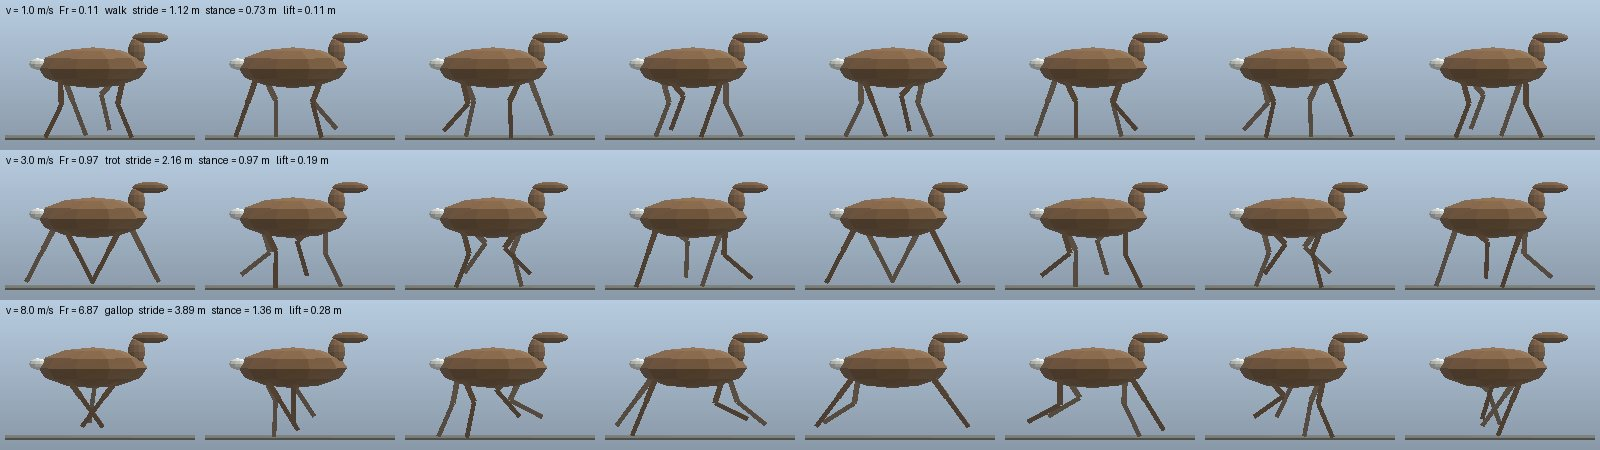
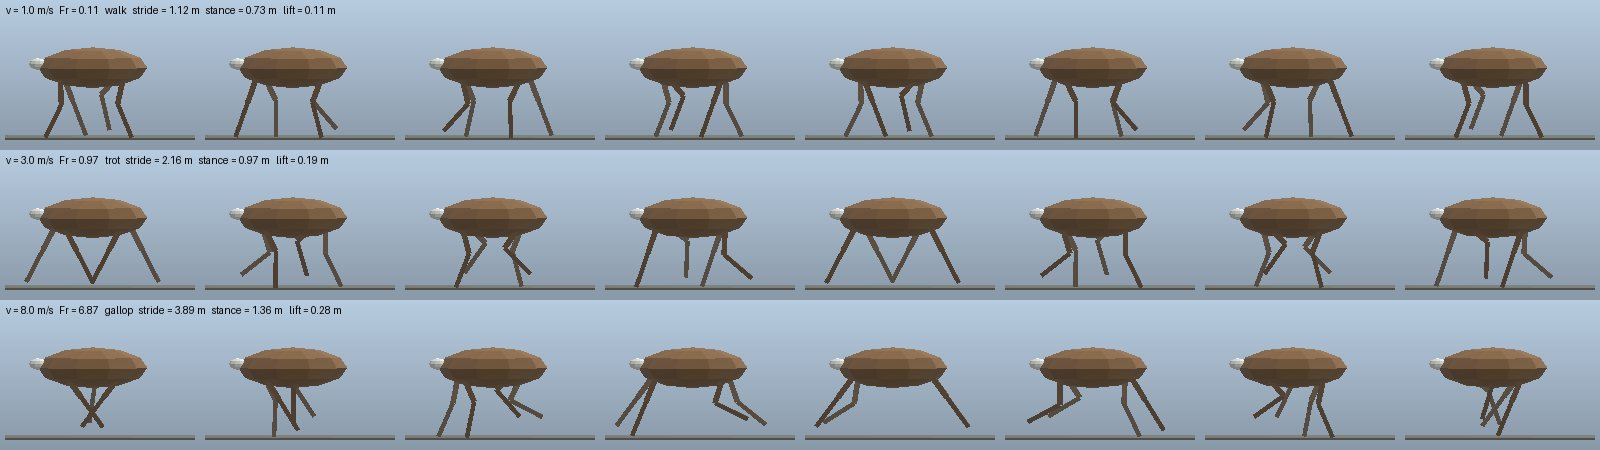
Trunk bob and head pose by behaviour
TECHNIQUES §28.

Bob (inverted-pendulum vault, highest at mid-stance, twice per stride):
    b(φ) = A h cos 2φ,   A = 0.015 / 0.03 / 0.05 for walk / trot / gallop
The trunk node (torso, neck, legs) carries b; IK aims feet at z = −(h + b)
so stance feet stay planted.

Head: deer, coyote and turkey have a neck-and-head part pivoting at the
neck base. Pitch follows the logged behaviour state as a fraction of the
grazing angle δ_g (110° deer and coyote, 120° turkey):
    eat/drink 1.0   dig 0.9   scratch 0.8   groom 0.4   rest 0.3
    travel 0.15     idle 0.1  flee 0.1      pause 0     freeze −0.2
    alert −0.25
Each change eases over 0.4 s.

Viewer check: 53 animated nodes, unique names, no errors. Gallery adds
poses.jpg. Scenes 10.72 / 9.04 / 9.79 MB. Tests pass.

Claude-Session: https://claude.ai/code/session_01W8T2zvuXVw2eBrrYHA5yqx

diff --git a/plandscape/fauna/bodies.py b/plandscape/fauna/bodies.py
@@ -28,13 +28,14 @@ def ellipsoid(c, r, rgb, nu=10, nv=6):
 
 def rig(key, rgb, scale=1.0):
     """Body split for gait animation: dict(torso=Mesh, legs=[dict(thigh, shank, hip, knee, l1, l2)],
-    hip=hip height h (m), kind='quad'|'biped'|'hop'|'none'). Legs are ordered LF, RF, LH, RH (bipeds L, R).
+    neck=dict(mesh, pivot, graze) or None, hip=hip height h (m), kind='quad'|'biped'|'hop'|'none'). Legs are ordered LF, RF, LH, RH (bipeds L, R).
     Thigh and shank hang straight down from their own origins (hip, knee); together they are h / 0.95 long, so
     the rest pose (gait.rest_pose) is slightly flexed. knee = +1 bends forward (stifle, human knee), −1 backward
     (a deer's carpus, a bird's intertarsal joint)."""
     from .gait import REACH
     rgb = np.asarray(rgb)
     parts, legs, hip, kind = [], [], 0.0, "none"
+    neck = None  # dict(mesh relative to the pivot, pivot xyz, graze=head-down pitch in radians)
 
     def leg(x, y, h, w, col, knee):
         L = h * REACH
@@ -45,9 +46,12 @@ def rig(key, rgb, scale=1.0):
     if key in ("white_tailed_deer", "coyote"):
         L = 0.75 if key == "white_tailed_deer" else 0.5
         h = 0.95 if key == "white_tailed_deer" else 0.5
-        parts += [ellipsoid((0, 0, h), (L, 0.22 * L / 0.75 + 0.05, 0.25 * L / 0.75 + 0.03), rgb),
-                  ellipsoid((L * 0.8, 0, h + 0.3 * L), (0.12, 0.07, 0.25 * L), rgb),
-                  ellipsoid((L * 1.05, 0, h + 0.55 * L), (0.2 * L / 0.75 + 0.05, 0.07, 0.08), rgb * 0.9)]
+        parts += [ellipsoid((0, 0, h), (L, 0.22 * L / 0.75 + 0.05, 0.25 * L / 0.75 + 0.03), rgb)]
+        pv = np.array([L * 0.7, 0, h + 0.05])
+        neck = dict(mesh=Mesh.merge([ellipsoid(np.array([L * 0.8, 0, h + 0.3 * L]) - pv, (0.12, 0.07, 0.25 * L), rgb),
+                                     ellipsoid(np.array([L * 1.05, 0, h + 0.55 * L]) - pv,
+                                               (0.2 * L / 0.75 + 0.05, 0.07, 0.08), rgb * 0.9)]),
+                    pivot=tuple(pv), graze=np.radians(110))
         for x, knee in ((L * 0.6, -1.0), (-L * 0.6, 1.0)):  # fore (carpus bends back), then hind (stifle forward)
             for y in (0.1, -0.1):                            # left (+y), then right
                 leg(x, y, h, 0.06, rgb * 0.8, knee)
@@ -63,9 +67,11 @@ def rig(key, rgb, scale=1.0):
         hip, kind = 0.1, "hop"
     elif key == "wild_turkey":
         parts += [ellipsoid((0, 0, 0.55), (0.32, 0.2, 0.22), rgb),
-                  ellipsoid((0.3, 0, 0.82), (0.04, 0.04, 0.16), (0.55, 0.65, 0.75)),
-                  ellipsoid((0.33, 0, 0.98), (0.06, 0.04, 0.05), (0.7, 0.15, 0.15)),
                   ellipsoid((-0.3, 0, 0.6), (0.12, 0.25, 0.08), rgb * 0.8)]
+        pv = np.array([0.25, 0, 0.65])
+        neck = dict(mesh=Mesh.merge([ellipsoid(np.array([0.3, 0, 0.82]) - pv, (0.04, 0.04, 0.16), (0.55, 0.65, 0.75)),
+                                     ellipsoid(np.array([0.33, 0, 0.98]) - pv, (0.06, 0.04, 0.05), (0.7, 0.15, 0.15))]),
+                    pivot=tuple(pv), graze=np.radians(120))
         for y in (0.08, -0.08):
             leg(0.02, y, 0.36, 0.03, (0.6, 0.35, 0.3), -1.0)  # the visible "knee" is the intertarsal joint
         hip, kind = 0.36, "biped"
@@ -85,13 +91,16 @@ def rig(key, rgb, scale=1.0):
         hip, kind = 0.9, "biped"
     torso = Mesh.merge(parts)
     torso.positions *= scale
+    if neck is not None:
+        neck["mesh"].positions *= scale
+        neck["pivot"] = tuple(c * scale for c in neck["pivot"])
     for lg in legs:
         lg["thigh"].positions *= scale
         lg["shank"].positions *= scale
         lg["hip"] = tuple(c * scale for c in lg["hip"])
         lg["l1"] *= scale
         lg["l2"] *= scale
-    return dict(torso=torso, legs=legs, hip=hip * scale, kind=kind)
+    return dict(torso=torso, legs=legs, neck=neck, hip=hip * scale, kind=kind)
 
 
 def _pitch(P, th):
@@ -116,4 +125,8 @@ def posed_legs(r, angles=None):
 def body(key, rgb, scale=1.0):
     """The rig merged into one static mesh in its rest pose (previews, the asset library)."""
     r = rig(key, rgb, scale)
-    return Mesh.merge([r["torso"]] + posed_legs(r))
+    parts = [r["torso"]] + posed_legs(r)
+    if r["neck"] is not None:
+        n = r["neck"]
+        parts.append(Mesh(n["mesh"].positions + np.asarray(n["pivot"], np.float32), n["mesh"].colors, n["mesh"].indices))
+    return Mesh.merge(parts)

diff --git a/plandscape/scene/compose.py b/plandscape/scene/compose.py
@@ -410,10 +410,12 @@ def compose(plan: ScenePlan, out_dir: str, sim_seconds=180.0, log=print, store: 
             rg = rig(a.spec.key, rgb, scale=sc)
             nm = f"{a.spec.key}_{len(rigs)}"
             rigs[look] = (rg, g.mesh(rg["torso"], nm + "_torso", m_fauna),
+                          g.mesh(rg["neck"]["mesh"], nm + "_head", m_fauna) if rg["neck"] else None,
                           [(g.mesh(lg["thigh"], f"{nm}_thigh{i}", m_fauna), g.mesh(lg["shank"], f"{nm}_shank{i}", m_fauna))
                            for i, lg in enumerate(rg["legs"])])
-        rg, torso_mesh, leg_meshes = rigs[look]
+        rg, torso_mesh, head_mesh, leg_meshes = rigs[look]
         torso = g.node("torso", torso_mesh)
+        neck = g.node("neck", head_mesh, translation=rg["neck"]["pivot"]) if head_mesh is not None else None
         legs, shanks = [], []
         for i, ((tm_, sm_), lg) in enumerate(zip(leg_meshes, rg["legs"])):
             r1, r2 = gait.rest_pose(rg["hip"], lg["l1"], lg["l2"], lg["knee"])
@@ -423,7 +425,8 @@ def compose(plan: ScenePlan, out_dir: str, sim_seconds=180.0, log=print, store: 
             g.nodes[th]["rotation"] = pitch_quat(r1).tolist()
             legs.append(th)
             shanks.append(sh)
-        node = g.node(f"{a.spec.key}_{a.id}", children=[torso] + legs)
+        trunk = g.node("body", children=[torso] + ([neck] if neck is not None else []) + legs)
+        node = g.node(f"{a.spec.key}_{a.id}", children=[trunk])
         akids.append(node)
         L = a.log[::4]
         if len(L) > 1:
@@ -431,13 +434,19 @@ def compose(plan: ScenePlan, out_dir: str, sim_seconds=180.0, log=print, store: 
         if len(a.log) > 1:  # legs swing by gait, by stride phase (keys only while moving)
             t_ = np.array([l[0] for l in a.log])
             xy = np.array([(l[1], l[2]) for l in a.log])
-            if legs:  # hip and knee by two-bone IK on planted-foot paths (TECHNIQUES §26)
+            if legs:  # hip and knee by two-bone IK on planted-foot paths (§26), trunk bob (§28)
                 lg0 = rg["legs"][0]
+                bob = []
                 tk, ang, _ = gait.leg_ik(t_, xy, rg["hip"], [lg["knee"] for lg in rg["legs"]],
-                                         "quad" if rg["kind"] == "quad" else "biped", seg=(lg0["l1"], lg0["l2"]))
+                                         "quad" if rg["kind"] == "quad" else "biped", seg=(lg0["l1"], lg0["l2"]), bob=bob)
                 for i, (ln, sn) in enumerate(zip(legs, shanks)):
                     extra.append((ln, "rotation", tk, pitch_quat(ang[:, i, 0])))
                     extra.append((sn, "rotation", tk, pitch_quat(ang[:, i, 1])))
+                bz = np.asarray(bob)
+                extra.append((trunk, "translation", tk, _to_gltf(np.c_[0 * bz, 0 * bz, bz])))
+            if neck is not None:  # head down to graze, up when alert (§28)
+                hk, hv = gait.head_track(t_, [l[5] for l in a.log], rg["neck"]["graze"])
+                extra.append((neck, "rotation", hk, pitch_quat(-hv)))
             elif rg["kind"] == "hop":
                 tk, zz = gait.hop_heights(t_, xy, rg["hip"], 0.6 * rg["hip"])
                 extra.append((torso, "translation", tk, _to_gltf(np.c_[0 * zz, 0 * zz, zz])))

diff --git a/plandscape/fauna/gait.py b/plandscape/fauna/gait.py
@@ -83,6 +83,11 @@ def key_times(times, v, phi):
 
 
 LIFT = {"walk": 0.12, "trot": 0.2, "gallop": 0.3}  # swing-foot lift, fraction of hip height
+BOB = {"walk": 0.015, "trot": 0.03, "gallop": 0.05}  # trunk bob amplitude, fraction of hip height (§28)
+# head pitch per behaviour state, as a fraction of the species' grazing angle (+ = down), and up for alert
+HEAD = {"eat": 1.0, "drink": 1.0, "dig": 0.9, "scratch": 0.8, "groom": 0.4, "rest": 0.3, "idle": 0.1,
+        "pause": 0.0, "travel": 0.15, "flee": 0.1, "alert": -0.25, "freeze": -0.2}
+HEAD_EASE = 0.4  # s to move the head to a new pose
 REACH = 1 / 0.95  # leg length / hip height
 
 
@@ -110,8 +115,10 @@ def rest_pose(h, l1, l2, knee):
     return two_bone(0.0, -h, l1, l2, knee)
 
 
-def leg_ik(times, xy, h, knees, legs="quad", seg=None):
-    """(key times (K,), angles (K, n_legs, 2) hip/knee radians, gait names) with feet planted in stance."""
+def leg_ik(times, xy, h, knees, legs="quad", seg=None, bob=None):
+    """(key times (K,), angles (K, n_legs, 2) hip/knee radians, gait names) with feet planted in stance.
+    With `bob` a list, it is filled with the trunk lift b(t) = A cos 2φ at each key; feet aim at z = −(h + b)
+    so they stay on the ground while the body rises and falls."""
     v, phi = phase_track(times, xy, h)
     tk = key_times(times, v, phi)
     vk = _interval_speed(times, v, tk)
@@ -124,15 +131,40 @@ def leg_ik(times, xy, h, knees, legs="quad", seg=None):
     out = np.zeros((len(tk), n, 2))
     for j in range(n):
         out[:, j] = rest_pose(h, l1, l2, knees[j])
+    b = np.zeros(len(tk))
     for i, (nm, p, vv) in enumerate(zip(names, pk, vk)):
         if vv <= 0:
             continue
         offs, beta = table[nm]
         S = float(stride(vv, h)) * beta
+        b[i] = BOB[nm] * h * np.cos(2 * p)
         for j, o in enumerate(offs):
             x, z = foot_path(p / (2 * np.pi) - o, beta, S, h, LIFT[nm])
-            out[i, j] = two_bone(x, z, l1, l2, knees[j])
+            out[i, j] = two_bone(x, z - b[i], l1, l2, knees[j])
+    if bob is not None:
+        bob.extend(b.tolist())
     return tk, out, names
+
+
+def head_track(times, states, graze):
+    """Head pitch keys from behaviour states: each change eases over HEAD_EASE seconds.
+    Returns (times, pitch radians, + = head down)."""
+    t = np.asarray(times, float)
+    target = np.array([HEAD.get(s, 0.0) * graze for s in states])
+    tk, val = [t[0]], [target[0]]
+    for i in range(1, len(t)):
+        if target[i] != target[i - 1]:
+            if t[i] > tk[-1] + 1e-6:
+                tk.append(t[i])
+                val.append(target[i - 1])
+            tk.append(t[i] + HEAD_EASE)
+            val.append(target[i])
+    if t[-1] > tk[-1]:
+        tk.append(t[-1])
+        val.append(val[-1])
+    tk, val = np.array(tk), np.array(val)
+    keep = np.r_[True, np.diff(tk) > 1e-6]  # ease windows that overlap a later change collapse to it
+    return tk[keep], val[keep]
 
 
 def leg_angles(times, xy, h, legs="quad"):

diff --git a/scripts/gallery.py b/scripts/gallery.py
@@ -149,6 +149,36 @@ def gait_sheet(path, key="white_tailed_deer"):
     return path
 
 
+def pose_sheet(path):
+    """Head pose by behaviour state (TECHNIQUES §28) for deer, coyote and turkey, from the GLB's rig."""
+    import numpy as np
+    from plandscape.fauna import gait
+    from plandscape.fauna.bodies import _pitch, posed_legs, rig
+    from plandscape.mesh import Mesh, box
+    from plandscape.render import render
+    states = ("eat", "rest", "travel", "pause", "alert")
+    rows = []
+    for key, rgb in (("white_tailed_deer", (0.55, 0.42, 0.30)), ("coyote", (0.55, 0.5, 0.42)),
+                     ("wild_turkey", (0.25, 0.2, 0.15))):
+        rg = rig(key, rgb)
+        n = rg["neck"]
+        ground = box((0.1, 0, -0.01), (2.6, 0.6, 0.02), (0.45, 0.45, 0.42))
+        frames = []
+        for st in states:
+            d = gait.HEAD[st] * n["graze"]
+            head = Mesh(_pitch(n["mesh"].positions, -d) + np.asarray(n["pivot"], np.float32), n["mesh"].colors,
+                        n["mesh"].indices)
+            img = render([ground, rg["torso"], head] + posed_legs(rg), None, size=(220, 160), azimuth=0, elevation=4,
+                         fit=((-1.2, -0.5, -0.05), (1.4, 0.5, 1.75)) if key != "wild_turkey" else
+                         ((-0.6, -0.3, -0.03), (0.6, 0.3, 1.1)), keep_first=99)
+            im = Image.fromarray(img)
+            ImageDraw.Draw(im).text((6, 4), f"{key.replace('_', ' ')}: {st}", fill=(0, 0, 0))
+            frames.append(np.asarray(im))
+        rows.append(np.concatenate(frames, 1))
+    Image.fromarray(np.concatenate(rows, 0)).save(path)
+    return path
+
+
 def main(argv=None):
     ap = argparse.ArgumentParser()
     ap.add_argument("--reuse", action="store_true")
@@ -168,6 +198,7 @@ def main(argv=None):
     _jpeg(terrain_sheet(os.path.join(ROOT, "out", "terrain.png")), os.path.join(OUT, "terrain-erosion.jpg"), 1500)
     _jpeg(creek_sheet(os.path.join(ROOT, "out", "creeks.png")), os.path.join(OUT, "creeks.jpg"), 1500)
     _jpeg(gait_sheet(os.path.join(ROOT, "out", "gaits.png")), os.path.join(OUT, "gaits.jpg"), 1600)
+    _jpeg(pose_sheet(os.path.join(ROOT, "out", "poses.png")), os.path.join(OUT, "poses.jpg"), 1100)
     for season in ("summer", "fall"):
         p = species_sheet(os.path.join(ROOT, "out", f"species_{season}.png"), season)
         _jpeg(p, os.path.join(OUT, f"species-{season}.jpg"), width=1500)

diff --git a/tests/test_core.py b/tests/test_core.py
@@ -63,7 +63,9 @@ class Gaits(unittest.TestCase):
         for k in ("white_tailed_deer", "wild_turkey", "human", "gray_squirrel"):
             r = rig(k, (0.5, 0.4, 0.3))
             b = body(k, (0.5, 0.4, 0.3))
-            self.assertEqual(b.n_tris, r["torso"].n_tris + sum(lg["thigh"].n_tris + lg["shank"].n_tris for lg in r["legs"]))
+            neck = r["neck"]["mesh"].n_tris if r["neck"] else 0
+            self.assertEqual(b.n_tris, r["torso"].n_tris + neck + sum(lg["thigh"].n_tris + lg["shank"].n_tris
+                                                                      for lg in r["legs"]))
             for lg in r["legs"]:  # rest pose puts the foot on the ground, slightly flexed
                 th1, th2 = gait.rest_pose(r["hip"], lg["l1"], lg["l2"], lg["knee"])
                 foot_z = -lg["l1"] * np.cos(th1) - lg["l2"] * np.cos(th1 + th2)
@@ -86,6 +88,28 @@ class Gaits(unittest.TestCase):
             self.assertTrue(np.all(np.sign(kx - x / 2) == knee))
         x, z = gait.foot_path(np.linspace(0.7, 0.95, 6), 0.65, 0.6, h, 0.12)
         self.assertTrue(np.all(z > -h))  # swing feet are lifted
+
+
+class Behaviour(unittest.TestCase):
+    def test_head_track_and_bob_keep_feet_down(self):
+        from plandscape.fauna import gait
+        t = np.arange(0, 10, 0.25)
+        states = ["travel"] * 10 + ["eat"] * 10 + ["eat"] * 10 + ["alert"] * 10
+        tk, hv = gait.head_track(t, states, np.radians(110))
+        self.assertTrue(np.all(np.diff(tk) > 0))
+        self.assertAlmostEqual(float(np.interp(5.0, tk, hv)), np.radians(110))  # grazing: head down
+        self.assertLess(float(hv[-1]), 0)  # alert: head up
+        # moving with bob: the IK still lands stance feet on the ground
+        x = 1.5 * t
+        bob = []
+        tk2, ang, names = gait.leg_ik(t, np.c_[x, 0 * x], 0.95, [-1.0, -1.0, 1.0, 1.0], "quad", seg=(0.5, 0.5), bob=bob)
+        bob = np.asarray(bob)
+        self.assertEqual(len(bob), len(tk2))
+        self.assertGreater(np.abs(bob).max(), 0.005)
+        th1, th2 = ang[:, 2, 0], ang[:, 2, 1]
+        fz = -0.5 * np.cos(th1) - 0.5 * np.cos(th1 + th2) + bob  # foot height above the ground (hip at h + b)
+        self.assertGreater(np.isclose(fz, -0.95, atol=1e-4).mean(), 0.4)  # in stance about half the time
+        self.assertTrue(np.all(fz >= -0.95 - 1e-4))  # never below the ground
 
 
 class Refine(unittest.TestCase):

diff --git a/docs/TECHNIQUES.md b/docs/TECHNIQUES.md
@@ -585,3 +585,26 @@ $$P_f = \begin{cases} D_f & D_f \in \mathcal V_f \\ P_{0,f} & \text{otherwise (n
 - It takes the first balanced `{…}` in the reply.
 
 Any failure keeps the keyword plan with a note saying why: no key, network down, no JSON. `python3 -m plandscape "<prompt>" --llm` uses it.
+
+## 28. Trunk bob and head pose by behaviour
+`plandscape/fauna/gait.py: BOB, HEAD, leg_ik(bob=), head_track`; `bodies.py: rig (neck)`; `scene/compose.py`
+
+**Bob.** In walking the trunk vaults over the stance leg like an inverted pendulum, highest at mid-stance, so it rises
+and falls twice per stride:
+
+$$b(\varphi) = A\,h\cos 2\varphi, \qquad A = 0.015 \text{ (walk)},\ 0.03 \text{ (trot)},\ 0.05 \text{ (gallop)}.$$
+
+The trunk node (torso, neck, legs) carries $b$. The IK aims each foot at $z = -(h + b)$, so stance feet stay on the
+ground while the body moves.
+
+**Head.** Deer, coyotes and turkeys have a neck-and-head part with its own pivot at the shoulder or neck base. Its pitch
+follows the agent's logged behaviour state, as a fraction of the species' grazing angle $\delta_g$ (110° for deer and coyote,
+120° for the turkey):
+
+| state | eat, drink | dig | scratch | groom | rest | travel | idle | flee | pause | freeze | alert |
+|---|---|---|---|---|---|---|---|---|---|---|---|
+| pitch $/\delta_g$ (+ = down) | 1.0 | 0.9 | 0.8 | 0.4 | 0.3 | 0.15 | 0.1 | 0.1 | 0 | −0.2 | −0.25 |
+
+Each change eases over 0.4 s: keys at the change, with the old pose, and 0.4 s later, with the new one. Overlapping eases
+collapse to the later change. A grazing deer now drops its head, and an alarmed one lifts it, in step with the event log in
+the viewer.

diff --git a/CHANGELOG.md b/CHANGELOG.md
@@ -3,6 +3,7 @@
 ## Unreleased
 
 **Added**
+- Trunk bob and head pose by behaviour (TECHNIQUES §28). The trunk rises and falls b = A h cos 2φ, and the IK keeps the feet planted. Deer, coyotes and turkeys lower their heads to eat or drink and raise them when alert, easing over 0.4 s at each state change. Gallery adds `poses.jpg`.
 - `--llm`: an optional Claude pass fills the scene plan from free-form prompts (TECHNIQUES §27). A validator keeps only values the generators can honour; seed, size and detail always stay the keyword planner's, and every rejection is noted in the plan. The client is stdlib-only (`urllib`), with `ANTHROPIC_API_KEY` and an optional `PLANDSCAPE_MODEL`. Offline, or on any failure, the keyword plan is used.
 - Knees and planted feet (TECHNIQUES §26). Legs are thigh plus shank. Feet follow stance and swing paths (S = λβ on the ground, a smoothstep arc lifted 0.12–0.3 h in swing), and hips and knees come from two-bone IK. Knees bend their anatomical way: fore carpus and bird intertarsal joints backward, stifle and human knee forward. The gallery's `gaits.jpg` now shows planted feet.
 - Animals walk (TECHNIQUES §25). Bodies are rigs with legs pivoting at the hips. Stride is λ = 2.3 h Fr^0.3 (Alexander 1976), and the gait (walk, trot or gallop) is chosen by Froude number (Alexander & Jayes 1983), with footfall offsets and duty factors per gait. Leg swing θ = θmax sin(φ − 2π o) is keyed by stride phase, 8 keys per stride. Squirrels bound. Gallery adds `gaits.jpg`. body-0.1.1.

diff --git a/HANDOFF.md b/HANDOFF.md
@@ -55,7 +55,7 @@ You are continuing **stick-town**, a Python package (`plandscape`) that turns a 
 3. **Grow the asset library.** All species × 4 seasons × ≥4 variants at `low` and `med`; all building kinds × 4; behaviour clips from ≥20 scenes. Ask the owner where large binaries should live before going past ~100 MB.
 4. **Animals.** Gaits by speed are done (§25). Next:
    - knees and planted feet are done (§26); feet still slide where the stance is out of reach (gallop);
-   - torso bob and head motion for alert and feeding states;
+   - torso bob and head pose by state are done (§28); next: lying down for rest, tail flick (deer flag when fleeing);
    - multi-hour runs;
    - more species: heron, cardinal, box turtle, raccoon, red-tailed hawk, fire-ant mounds.
 5. **Species data is verified** (§24, `catalog/species_sources.json`). New species need the same: URL plus quote for height, d.b.h., leaf length and habit before `verified=True`. Silvics PDFs: research.fs.usda.gov/download/treesearch/1547.pdf (conifers) and 1548.pdf (hardwoods); the old srs.fs.usda.gov host fails TLS.

diff --git a/docs/gallery/README.md b/docs/gallery/README.md
@@ -29,6 +29,13 @@ The deer rig through one stride at 1, 3 and 8 m/s. The Froude number picks walk,
 λ = 2.3 h Fr^0.3. Feet follow stance and swing paths, and hips and knees come from two-bone IK (§26), the same
 angles keyed into the GLB by stride phase. The grey line is the ground.
 
+## Head pose by behaviour (§28)
+
+![poses](poses.jpg)
+
+The head pitches by the agent's logged state: down to eat or drink, raised when alert. The same keys drive the GLB's
+neck nodes, easing over 0.4 s at each change.
+
 ## Terrain: droplet erosion (§14)
 
 ![terrain erosion](terrain-erosion.jpg)
